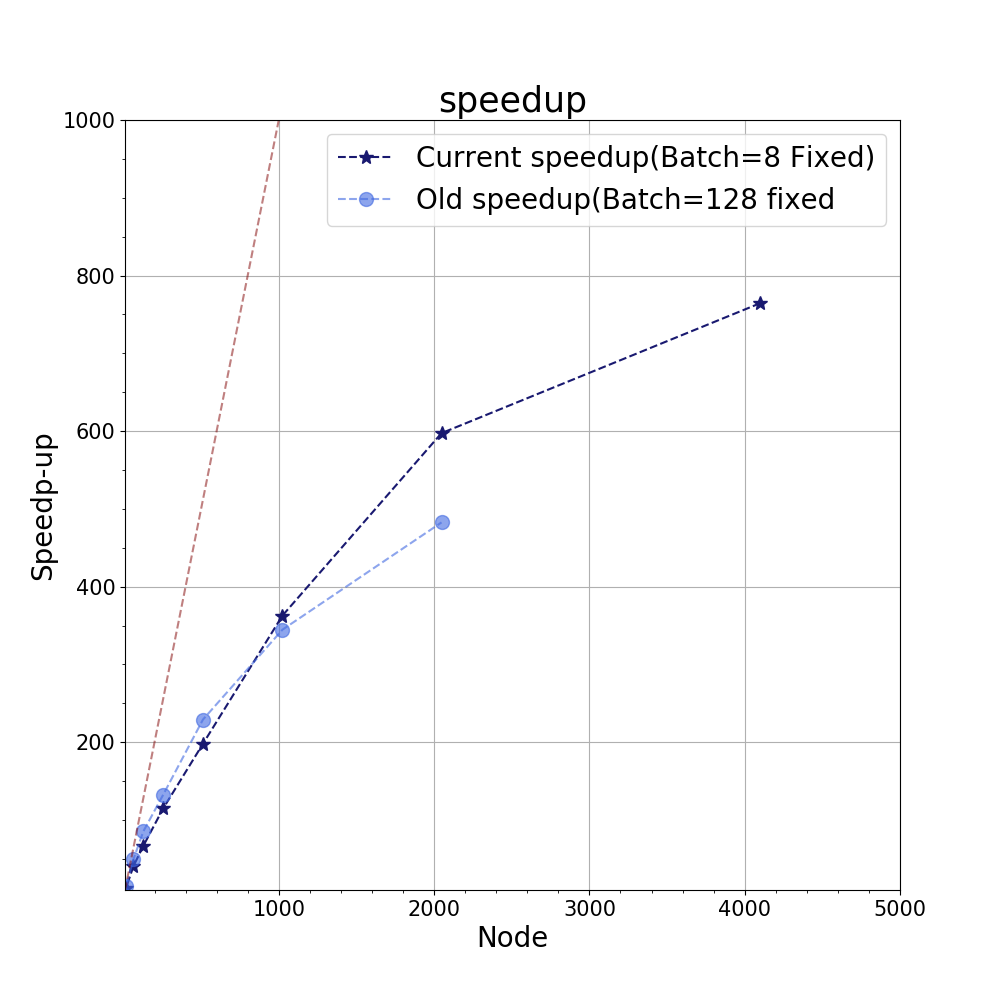
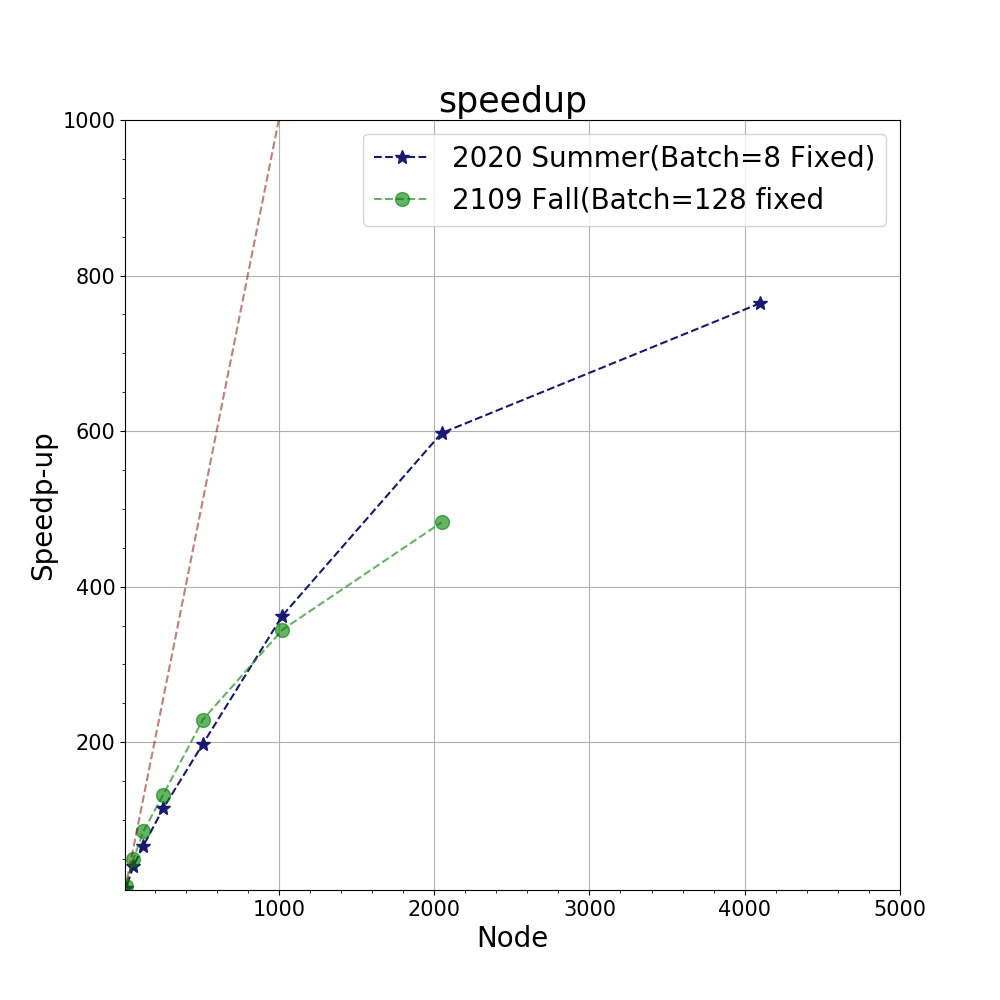
speed

diff --git a/Analyze_Tool/speedup.py b/Analyze_Tool/speedup.py
@@ -31,8 +31,8 @@ plt.rc('ytick',labelsize=15)
 x = np.linspace(4,5000,20000)
 y = x
 fig,axs = plt.subplots(1,figsize=(10,10))
-axs.plot(node,speedup,'--*',color='midnightblue',markersize=10,label="Current speedup(Batch=8 Fixed)")
-axs.plot(node_old,speedup_old,'--o',color='royalblue',markersize=10,alpha=0.6,label="Old speedup(Batch=128 fixed")
+axs.plot(node,speedup,'--*',color='midnightblue',markersize=10,label="2020 Summer(Batch=8 Fixed)")
+axs.plot(node_old,speedup_old,'--o',color='green',markersize=10,alpha=0.6,label="2109 Fall(Batch=128 fixed")
 axs.plot(x,y,'--',color='maroon',alpha=0.5)
 plt.legend(prop={'size':20})
 
